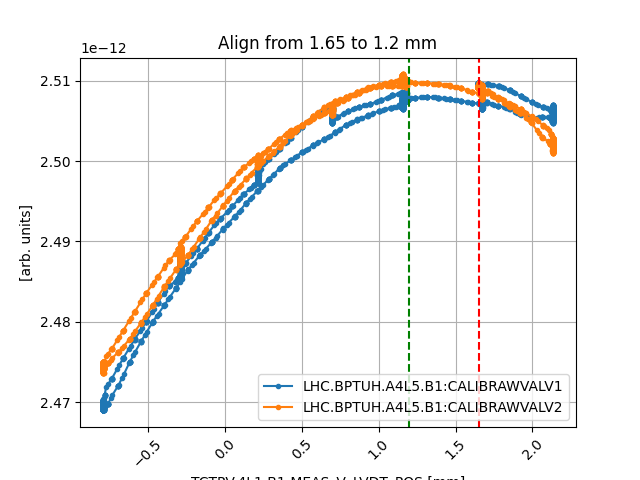
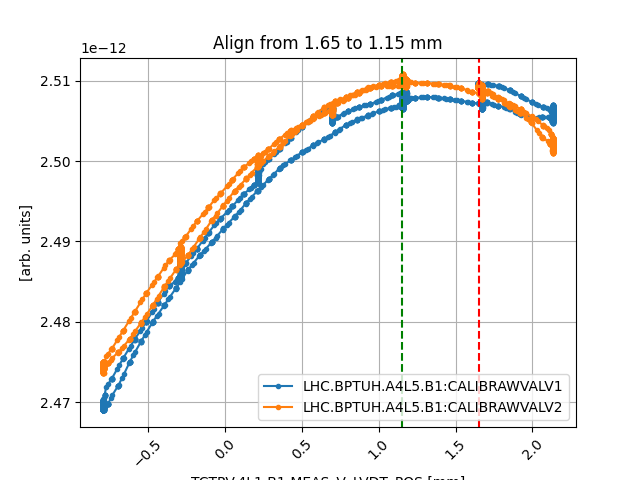
Status

Changed region(s): [[0.3125, 0.0625, 0.6875, 0.875]]

diff --git a/find_alignment.py b/find_alignment.py
@@ -72,7 +72,7 @@ df['DCT_B1_FIT'] = df['LHC.BCTDC.A6R4.B1:BEAM_INTENSITY'].rolling(window=5000).m
 df['DCT_B2_FIT'] = df['LHC.BCTDC.A6R4.B2:BEAM_INTENSITY'].rolling(window=5000).mean()
 
 # %%
-df.to_parquet('data/df.csv')
+# df.to_parquet('data/df.csv')
 
 # %%
 from matplotlib import pyplot as plt
@@ -119,11 +119,11 @@ plt.xlabel('TCTPV.4L1.B1:MEAS_V_LVDT_POS [mm]')
 plt.legend()
 # plot vertical line at the 'LHC.BPTUV.A4L1.B1:CALIBRAWVALV1' maximum
 initial_offset = df[f'TCTP{my_plane}.4{my_string}:MEAS_V_LVDT_POS'].between_time(t0_filtered,t1_filtered).dropna()[0]
-offset = 0.
+offset = 0.5
 plt.axvline(x=initial_offset, color='r', linestyle='--')
 plt.axvline(x=offset, color='g', linestyle='--')
 
-plt.title(f'Align from {initial_offset:3.2f} to {offset} mm')
+plt.title(f'Align from {initial_offset:3.2f} to {offset:3.2f} mm')
 plt.savefig(f'plots/result_TCTP{my_plane}.4{my_string}.png')
 
 # %%
@@ -170,11 +170,11 @@ plt.xlabel('TCTPV.4L1.B1:MEAS_V_LVDT_POS [mm]')
 plt.legend()
 # plot vertical line at the 'LHC.BPTUV.A4L1.B1:CALIBRAWVALV1' maximum
 initial_offset = df[f'TCTP{my_plane}.4{my_string}:MEAS_V_LVDT_POS'].between_time(t0_filtered,t1_filtered).dropna()[0]
-offset = 0.3
+offset = 0.5
 plt.axvline(x=initial_offset, color='r', linestyle='--')
 plt.axvline(x=offset, color='g', linestyle='--')
 
-plt.title(f'Align from {initial_offset:3.2f} to {offset} mm')
+plt.title(f'Align from {initial_offset:3.2f} to {offset:3.2f} mm')
 plt.savefig(f'plots/result_TCTP{my_plane}.4{my_string}.png')
 
 # %%
@@ -221,17 +221,17 @@ plt.xlabel('TCTPV.4L1.B1:MEAS_V_LVDT_POS [mm]')
 plt.legend()
 # plot vertical line at the 'LHC.BPTUV.A4L1.B1:CALIBRAWVALV1' maximum
 initial_offset = df[f'TCTP{my_plane}.4{my_string}:MEAS_V_LVDT_POS'].between_time(t0_filtered,t1_filtered).dropna()[0]
-offset = 1.2
+offset = 1.15
 plt.axvline(x=initial_offset, color='r', linestyle='--')
 plt.axvline(x=offset, color='g', linestyle='--')
 
-plt.title(f'Align from {initial_offset:3.2f} to {offset} mm')
+plt.title(f'Align from {initial_offset:3.2f} to {offset:3.2f} mm')
 plt.savefig(f'plots/result_TCTP{my_plane}.4{my_string}.png')
 # %%
-t0_filtered="19:27"
-t1_filtered="19:37"
+t0_filtered="19:18"
+t1_filtered="19:27"
 
-wire = 'L1'
+wire = 'R5'
 if 'L' in wire:
     my_string = wire + '.B1'
     my_beam = 'B1'
@@ -271,10 +271,10 @@ plt.xlabel('TCTPV.4L1.B1:MEAS_V_LVDT_POS [mm]')
 plt.legend()
 # plot vertical line at the 'LHC.BPTUV.A4L1.B1:CALIBRAWVALV1' maximum
 initial_offset = df[f'TCTP{my_plane}.4{my_string}:MEAS_V_LVDT_POS'].between_time(t0_filtered,t1_filtered).dropna()[0]
-offset = 0
+offset = 0.50
 plt.axvline(x=initial_offset, color='r', linestyle='--')
 plt.axvline(x=offset, color='g', linestyle='--')
 
-plt.title(f'Align from {initial_offset:3.2f} to {offset} mm')
+plt.title(f'Align from {initial_offset:3.2f} to {offset:3.2f} mm')
 plt.savefig(f'plots/result_TCTP{my_plane}.4{my_string}.png')
 # %%
